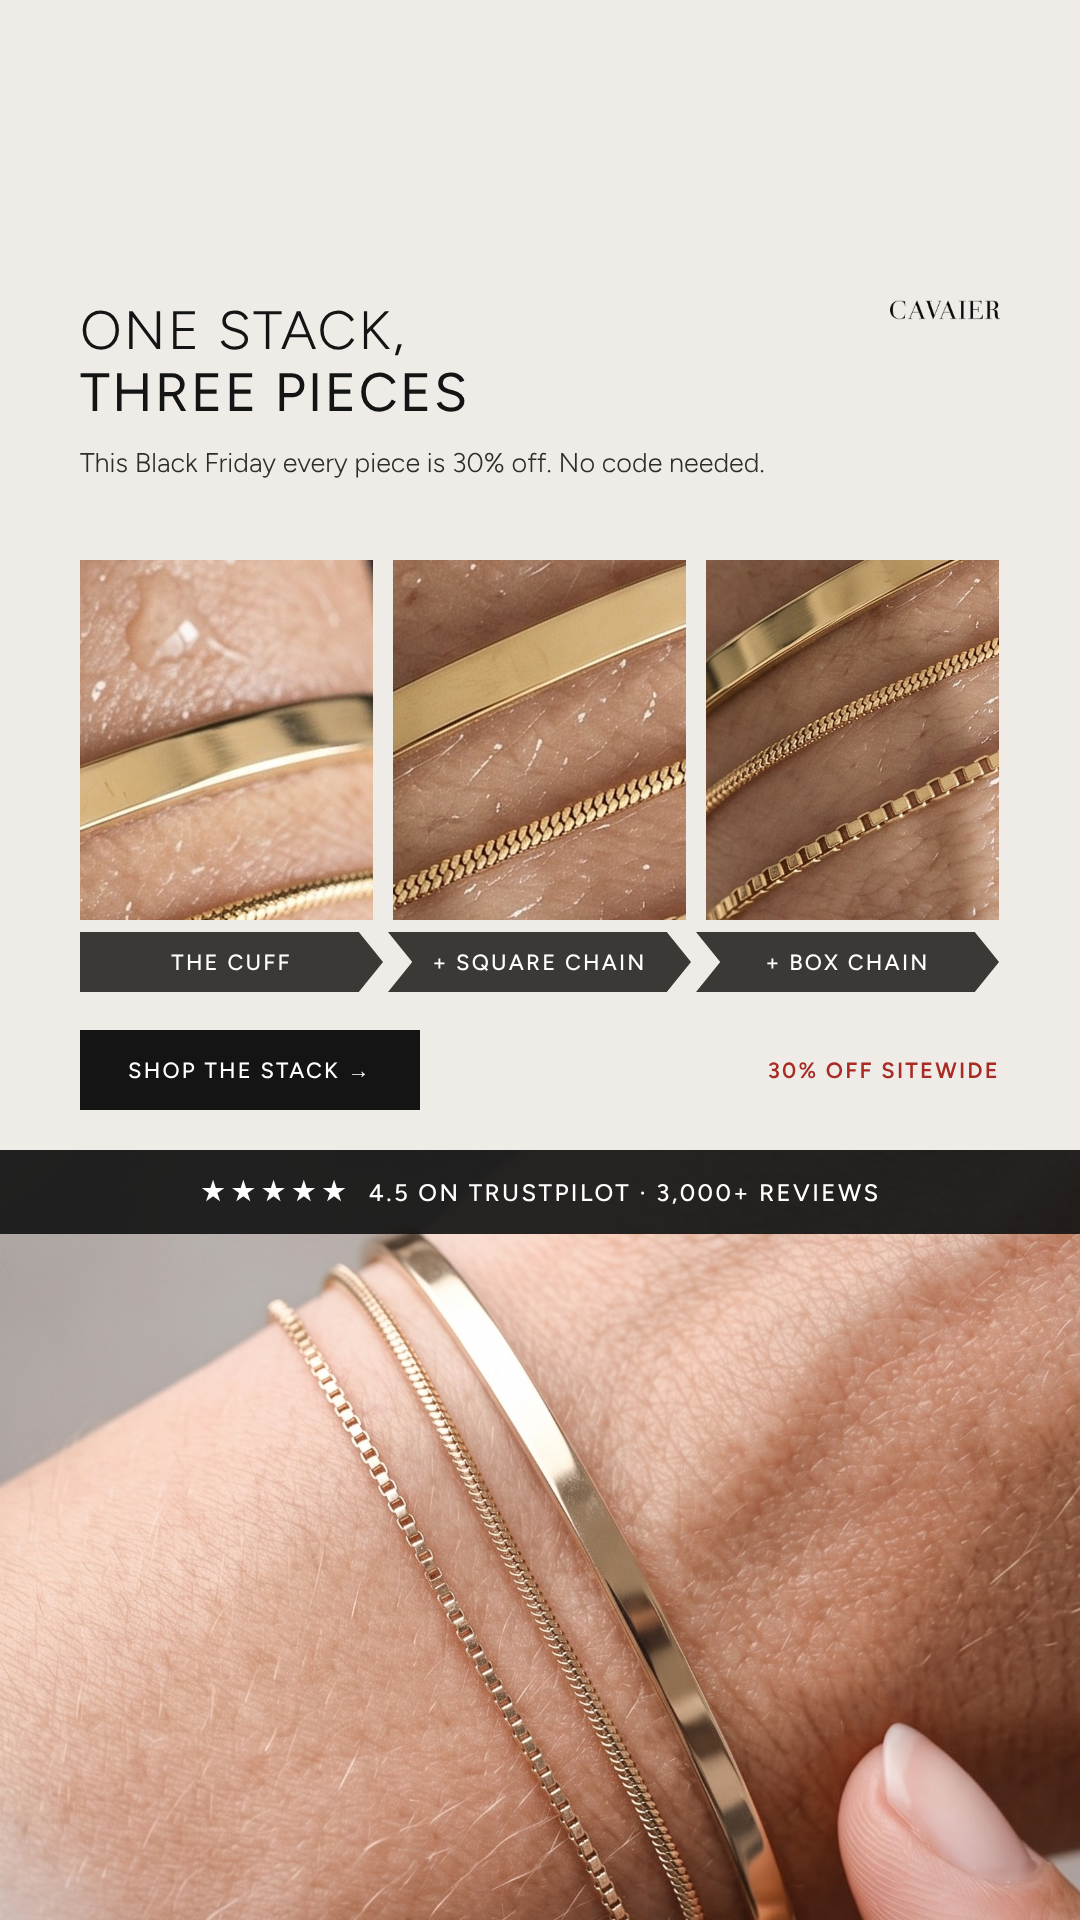
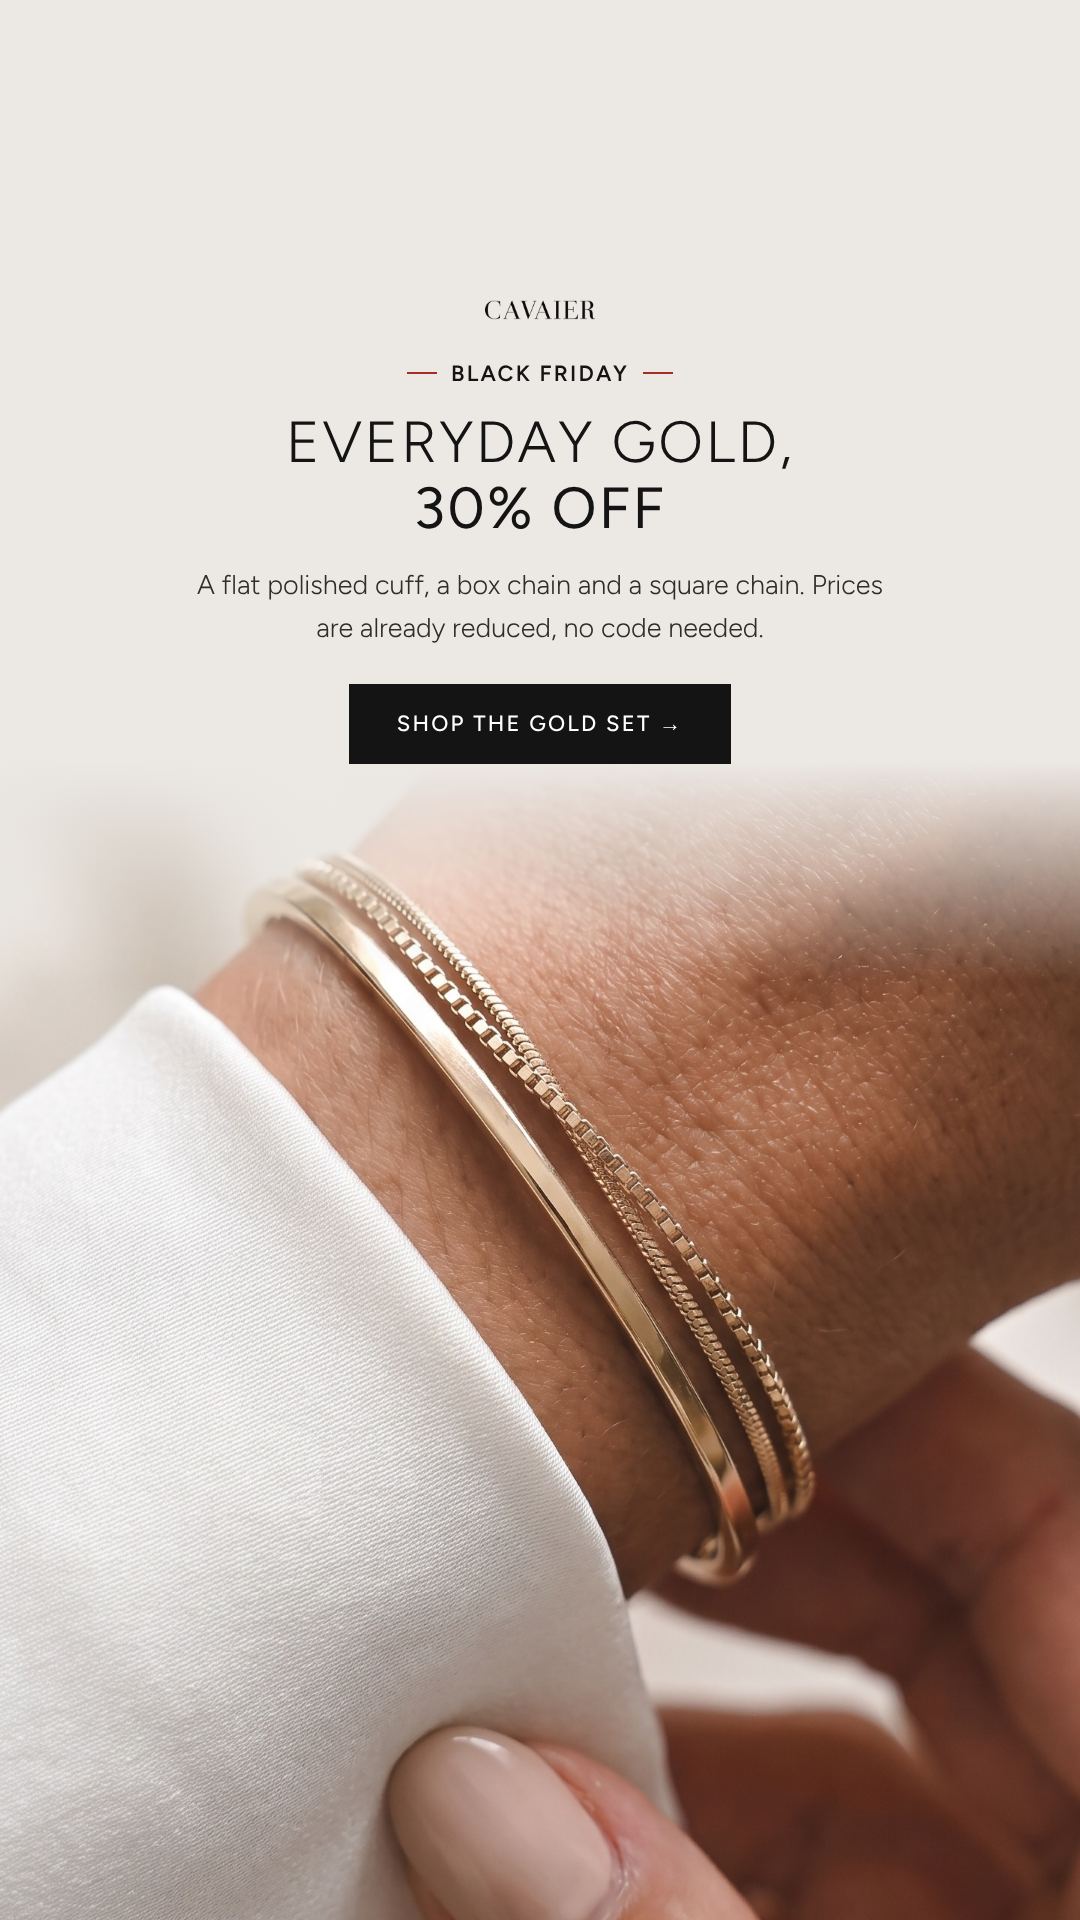
W431 C2 rebuilt (IM8 Join the squad's daily ritual, real Figma gold stack photo), exports + canvas backup
Claude-Session: https://claude.ai/code/session_01LtGMNmy7hV4kZNsS3Vsb6Q

diff --git a/bfcm26/canvas/W431-C2.dc.html b/bfcm26/canvas/W431-C2.dc.html
@@ -2,7 +2,7 @@
 <html lang="en">
 <head>
 <meta charset="utf-8">
-<title>W Batch 431 - C2 · One stack, three pieces (IM8 The bloat dissolving)</title>
+<title>W Batch 431 - C2 · Everyday gold, 30% off (IM8 Join the squad's daily ritual)</title>
 <script src="./support.js"></script>
 </head>
 <body>
@@ -14,20 +14,14 @@ body{margin:0}
 a{color:#141414}a:hover{color:#000000}
 </style>
 </helmet>
-<div style="width: 1080px; height: 1920px; position: relative; overflow: hidden; background: #EFECE8; font-family: Figtree, sans-serif; color: #141414">
-<img src="/_blob/d113ff2aa5f020ec3f3ffe4065f1ff68" alt="Close-up of the flat polished gold cuff bangle on a wet wrist" style="position: absolute; top: 560px; left: 80px; width: 293px; height: 360px; object-fit: cover; display: block"><img src="/_blob/f0d00296ee2c535c446be314a08d795b" alt="Close-up of the gold cuff bangle with the square chain beside it" style="position: absolute; top: 560px; left: 393px; width: 293px; height: 360px; object-fit: cover; display: block"><img src="/_blob/cdb3ad9af540baf2e93e8c93d9a42890" alt="Close-up of all three gold pieces: cuff bangle, square chain and box chain" style="position: absolute; top: 560px; left: 706px; width: 293px; height: 360px; object-fit: cover; display: block">
-<img src="/_blob/4a1b5d8a92d1b761aaaa029670632748" alt="The gold 3x Minimal - Stack Set on a wrist, fingers resting under it" style="position: absolute; top: 1150px; left: 0; width: 1080px; height: 770px; object-fit: cover; object-position: 50% 36%; display: block">
-<img src="/_blob/b5d78a878b48e10609c923597dd1852e" alt="Cavaier" style="position: absolute; top: 300px; right: 80px; width: 110px; height: auto; display: block">
-<div style="position: absolute; top: 300px; left: 80px; width: 760px; display: flex; flex-direction: column; gap: 18px">
-<h1 style="margin: 0; font-size: 54px; line-height: 1.14; letter-spacing: 0.04em; font-weight: 300; text-transform: uppercase">One stack,<br><span style="font-weight: 400">three pieces</span></h1>
-<p style="margin: 0; font-size: 27px; line-height: 1.6; font-weight: 300; color: #2E2D2B; max-width: 720px">This Black Friday every piece is 30% off. No code needed.</p>
-</div>
-<span style="position: absolute; top: 932px; left: 80px; width: 303px; height: 60px; display: flex; align-items: center; justify-content: center; background: #3A3936; clip-path: polygon(0 0, 92% 0, 100% 50%, 92% 100%, 0 100%); color: #FFFFFF; font-size: 22px; font-weight: 500; letter-spacing: 0.1em">THE CUFF</span><span style="position: absolute; top: 932px; left: 388px; width: 303px; height: 60px; display: flex; align-items: center; justify-content: center; background: #3A3936; clip-path: polygon(0 0, 92% 0, 100% 50%, 92% 100%, 0 100%, 8% 50%); color: #FFFFFF; font-size: 22px; font-weight: 500; letter-spacing: 0.1em">+ SQUARE CHAIN</span><span style="position: absolute; top: 932px; left: 696px; width: 303px; height: 60px; display: flex; align-items: center; justify-content: center; background: #3A3936; clip-path: polygon(0 0, 92% 0, 100% 50%, 92% 100%, 0 100%, 8% 50%); color: #FFFFFF; font-size: 22px; font-weight: 500; letter-spacing: 0.1em">+ BOX CHAIN</span>
-<div style="position: absolute; top: 1030px; left: 80px; width: 920px; display: flex; align-items: center; justify-content: space-between">
-<a href="https://cavaier.com/products/3x-minimal-stack-set-for-her?variant=54372825530714" style="display: inline-flex; align-items: center; justify-content: center; height: 80px; padding: 0 48px; background: #141414; color: #FFFFFF; text-decoration: none; font-size: 22px; font-weight: 500; letter-spacing: 0.1em">SHOP THE STACK →</a><span style="font-size: 22px; font-weight: 600; letter-spacing: 0.1em; color: #A82C24">30% OFF SITEWIDE</span>
-</div>
-<div style="position: absolute; top: 1150px; left: 0; width: 1080px; height: 84px; background: rgba(20,20,20,0.92); display: flex; align-items: center; justify-content: center; gap: 18px">
-<span style="font-size: 26px; letter-spacing: 0.12em; color: #FFFFFF">★★★★★</span><span style="font-size: 24px; font-weight: 500; letter-spacing: 0.1em; color: #FFFFFF">4.5 ON TRUSTPILOT · 3,000+ REVIEWS</span>
+<div style="width: 1080px; height: 1920px; position: relative; overflow: hidden; background: #ECE9E5; font-family: Figtree, sans-serif; color: #141414">
+<div style="position: absolute; top: 760px; left: 0; width: 1080px; height: 1160px; overflow: hidden"><img src="/_blob/64b47469affca5fafec30c09a91295c9" alt="The gold 3x Minimal - Stack Set (flat polished cuff bangle, box chain and square chain) on a wrist, white sleeve, fingers holding the cuff" style="position: absolute; top: -660px; left: -36px; width: 1152px; height: 2064px; display: block"></div><div style="position: absolute; top: 760px; left: 0; width: 1080px; height: 220px; background: linear-gradient(180deg, #ECE9E5 0%, rgba(236,233,229,0.6) 45%, rgba(236,233,229,0) 100%)"></div>
+<div style="position: absolute; top: 300px; left: 0; width: 1080px; display: flex; flex-direction: column; align-items: center; text-align: center">
+<img src="/_blob/b5d78a878b48e10609c923597dd1852e" alt="Cavaier" style="width: 110px; height: auto; display: block">
+<span style="margin-top: 40px; display: inline-flex; align-items: center; gap: 14px; font-size: 22px; font-weight: 600; letter-spacing: 0.1em; color: #141414"><i style="display: block; width: 30px; height: 2px; background: #A82C24"></i>BLACK FRIDAY<i style="display: block; width: 30px; height: 2px; background: #A82C24"></i></span>
+<h1 style="margin: 22px 0 0; font-size: 58px; line-height: 1.14; letter-spacing: 0.04em; font-weight: 300; text-transform: uppercase">Everyday gold,<br><span style="font-weight: 400">30% off</span></h1>
+<p style="margin: 22px 0 0; width: 720px; font-size: 27px; line-height: 1.6; font-weight: 300; color: #2E2D2B">A flat polished cuff, a box chain and a square chain. Prices are already reduced, no code needed.</p>
+<div style="margin-top: 34px"><a href="https://cavaier.com/products/3x-minimal-stack-set-for-her?variant=54372825530714" style="display: inline-flex; align-items: center; justify-content: center; height: 80px; padding: 0 48px; background: #141414; color: #FFFFFF; text-decoration: none; font-size: 22px; font-weight: 500; letter-spacing: 0.1em">SHOP THE GOLD SET →</a></div>
 </div>
 </div>
 </x-dc>

diff --git a/bfcm26/canvas/Refs-W431.dc.html b/bfcm26/canvas/Refs-W431.dc.html
@@ -15,7 +15,7 @@ body{margin:0}
 </helmet>
 <div style="width: 420px; height: 1920px; box-sizing: border-box; padding: 20px 45px; background: #F2F2F1; font-family: Figtree, sans-serif; color: #141414; display: flex; flex-direction: column; gap: 22px">
 <figure style="margin: 0; display: flex; flex-direction: column; gap: 8px"><img src="/_blob/cb4073866471167118642323a2314f7a" alt="IM8 reference for C1" style="width: 330px; height: 560px; object-fit: cover; display: block"><figcaption style="font-size: 18px; font-weight: 500; letter-spacing: 0.06em">C1 · IM8 · logo lockup, oversized offset headline, CTA low (515K)</figcaption></figure>
-<figure style="margin: 0; display: flex; flex-direction: column; gap: 8px"><img src="/_blob/04538ca6f4ef36c8c5aa9a5e8e21b003" alt="IM8 reference for C2" style="width: 330px; height: 560px; object-fit: cover; display: block"><figcaption style="font-size: 18px; font-weight: 500; letter-spacing: 0.06em">C2 · IM8 · headline, 3 panels with chevrons, hero, rating band (499K)</figcaption></figure>
+<figure style="margin: 0; display: flex; flex-direction: column; gap: 8px"><img src="/_blob/2c0e0e2bd8fe78aa0f014936f7b18fdc" alt="IM8 reference for C2" style="width: 330px; height: 560px; object-fit: cover; display: block"><figcaption style="font-size: 18px; font-weight: 500; letter-spacing: 0.06em">C2 · IM8 · logo lockup, headline, subline, CTA over one big lifestyle photo (430K)</figcaption></figure>
 <figure style="margin: 0; display: flex; flex-direction: column; gap: 8px"><img src="/_blob/e71076ab1cf0ec37eb6566182e1aa853" alt="IM8 reference for C3" style="width: 330px; height: 560px; object-fit: cover; display: block"><figcaption style="font-size: 18px; font-weight: 500; letter-spacing: 0.06em">C3 · IM8 · centred headline, tall product, two feature columns (487K)</figcaption></figure>
 </div>
 </x-dc>
